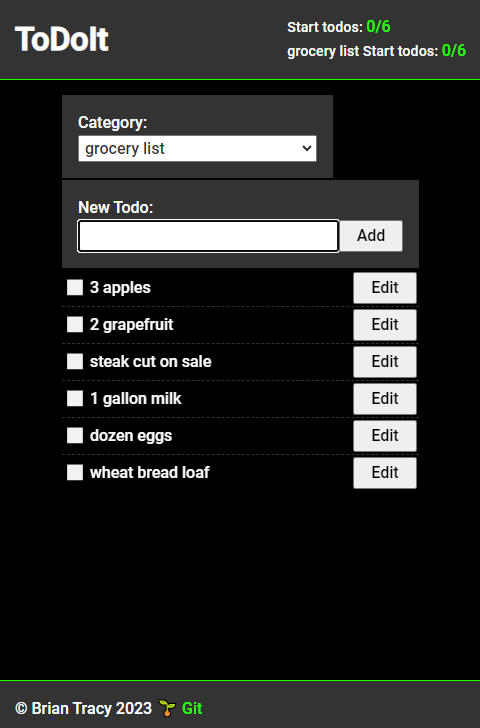
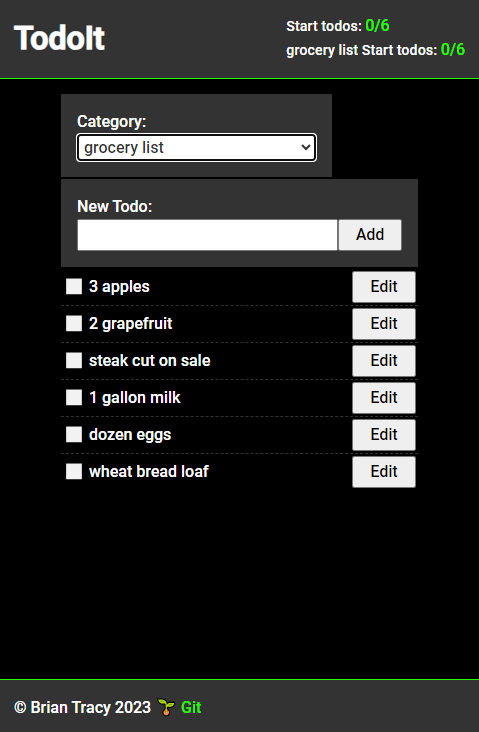
updated png

Changed region(s): [[0.1169, 0.1511, 0.8768, 0.6951], [0.0, 0.0302, 1.0, 0.1511], [0.0, 0.9066, 1.0, 0.9973]]

diff --git a/src/components/Header.tsx b/src/components/Header.tsx
@@ -58,7 +58,7 @@ const Header: React.FC<Props> = ({ completedCount, todos, category }) => {
 
   return (
     <span className='header'>
-      <h1>ToDoIt</h1>
+      <h1>TodoIt</h1>
       <h2>{displayCompleted()}</h2>
     </span>
   );
